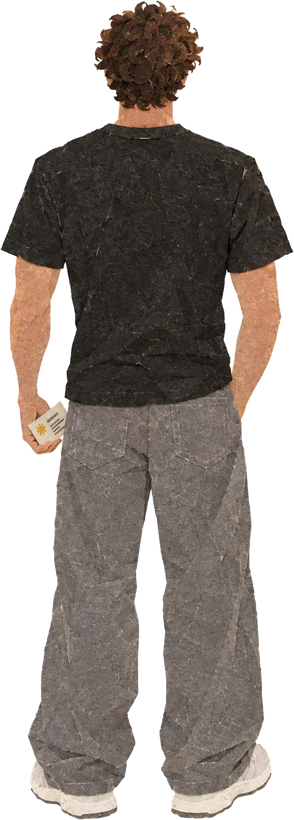
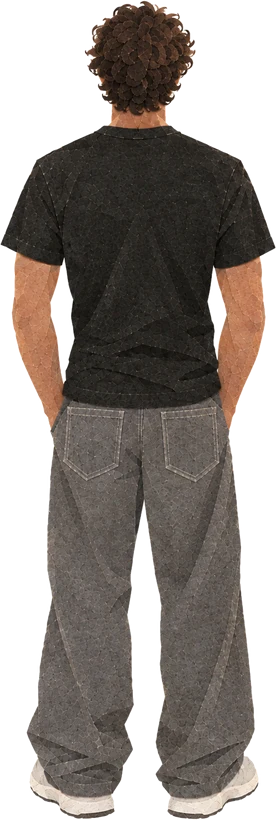
Add files via upload

diff --git a/js/app.js b/js/app.js
@@ -1,5 +1,5 @@
 // Julian Frick – Website. Inhalte kommen aus /content/*.json (bearbeitbar unter /admin).
-const PIECES = {"uni": {"x": 0.54, "y": 25.21, "w": 29.25, "h": 33.62, "clip": "polygon(89.7% 1.1%,60.8% 0.9%,59.2% 1.9%,53.7% 0.0%,37.7% 2.5%,36.4% 3.3%,32.9% 12.3%,28.8% 16.9%,27.4% 22.8%,8.5% 23.7%,8.4% 48.1%,0.7% 50.3%,0.0% 52.1%,0.0% 99.7%,99.2% 99.8%,99.9% 75.2%,97.9% 54.6%,92.7% 50.3%,92.7% 31.5%,90.3% 23.1%)"}, "tower": {"x": 30.02, "y": 10.11, "w": 17.58, "h": 38.94, "clip": "polygon(17.2% 11.7%,17.0% 38.5%,15.0% 40.2%,7.7% 41.3%,5.8% 42.5%,3.7% 60.1%,1.7% 68.6%,2.9% 69.3%,5.8% 69.3%,7.1% 70.4%,7.1% 77.0%,6.1% 79.9%,1.0% 83.5%,0.0% 94.8%,12.8% 98.2%,45.2% 99.9%,81.3% 98.8%,98.0% 94.4%,99.8% 86.6%,98.5% 70.4%,97.8% 68.0%,93.4% 64.5%,92.5% 64.5%,87.8% 68.4%,85.7% 78.7%,84.7% 80.5%,82.7% 81.1%,77.7% 81.1%,75.9% 80.6%,75.0% 79.5%,75.0% 62.4%,75.9% 61.3%,77.4% 60.9%,81.1% 61.6%,85.5% 61.2%,85.2% 35.7%,83.8% 30.9%,83.5% 23.6%,81.5% 23.5%,78.2% 24.9%,72.6% 25.7%,66.7% 27.6%,63.6% 27.3%,62.4% 26.0%,62.4% 20.1%,63.3% 19.0%,64.8% 18.6%,64.1% 15.3%,64.5% 11.6%,55.1% 8.5%,44.0% 5.7%,42.3% 4.1%,42.2% 0.0%,40.8% 0.1%,40.8% 4.4%,39.5% 5.7%)"}, "laptop": {"x": 48.27, "y": 33.72, "w": 16.39, "h": 20.32, "clip": "polygon(0.0% 78.8%,1.1% 88.0%,78.5% 99.7%,93.2% 82.7%,93.2% 72.5%,97.6% 61.8%,99.8% 1.8%,33.0% 0.0%,29.2% 56.5%)"}, "sign": {"x": 73.74, "y": 41.38, "w": 9.84, "h": 20.85, "clip": "polygon(43.5% 0.0%,40.4% 1.0%,36.5% 4.8%,37.1% 10.2%,35.3% 11.2%,18.5% 11.7%,0.6% 14.5%,1.2% 35.2%,33.1% 32.9%,37.1% 33.9%,36.2% 39.5%,1.5% 42.3%,2.4% 62.2%,4.9% 63.0%,36.5% 61.0%,36.5% 83.4%,30.1% 75.8%,29.2% 87.8%,22.5% 81.4%,26.1% 93.9%,21.3% 98.0%,25.8% 99.2%,42.6% 98.2%,50.2% 99.7%,59.6% 99.7%,62.3% 99.0%,59.9% 95.7%,65.0% 90.1%,59.9% 89.8%,64.4% 81.1%,56.8% 85.7%,57.1% 79.8%,52.0% 84.7%,50.2% 84.7%,49.5% 60.5%,70.2% 58.4%,81.5% 58.7%,99.7% 46.4%,79.6% 36.2%,49.5% 38.8%,48.3% 37.8%,48.3% 32.9%,53.8% 31.4%,83.3% 30.4%,99.7% 18.9%,82.1% 8.2%,74.5% 7.7%,67.5% 9.2%,48.9% 10.2%,47.7% 2.8%)"}, "train": {"x": 83.34, "y": 25.53, "w": 15.88, "h": 17.55, "clip": "polygon(1.3% 40.9%,2.3% 44.5%,8.1% 43.9%,10.0% 46.4%,9.6% 60.0%,7.0% 72.7%,0.0% 76.1%,3.4% 79.1%,8.5% 79.1%,16.6% 82.7%,27.7% 81.5%,33.9% 84.5%,36.3% 83.9%,42.4% 85.8%,44.4% 88.2%,48.4% 87.6%,50.7% 85.2%,58.0% 89.4%,62.7% 88.8%,66.7% 91.8%,69.9% 90.0%,74.2% 94.8%,81.5% 95.5%,83.2% 99.7%,85.1% 99.4%,85.9% 93.6%,87.4% 92.4%,92.8% 93.0%,95.3% 95.5%,98.1% 95.5%,99.8% 90.9%,99.4% 74.8%,96.0% 49.4%,93.0% 46.1%,92.7% 42.4%,85.7% 34.5%,71.0% 13.9%,46.3% 2.4%,45.4% 0.0%,38.8% 0.0%,37.5% 3.0%,23.7% 20.0%)"}, "cupid": {"x": 77.5, "y": 12.5, "w": 4.4, "h": 5.76}, "figur": {"x": 44.26, "y": 54.15, "w": 8.79, "h": 43.62}, "ki": {"x": 57.79, "y": 80.94, "w": 6.31, "h": 7.15}, "flugzeug": {"x": 42.76, "y": 4.79, "w": 7.48, "h": 4.47}, "fahnen": {"x": 93.66, "y": 18.72, "w": 3.17, "h": 4.47}, "dokumente": {"x": 89.23, "y": 84.36, "w": 8.97, "h": 13.3}, "herzwolke": {"x": 77.51, "y": 11.28, "w": 5.38, "h": 6.38}, "wolke1": {"x": 0.0, "y": 3.351, "w": 23.295, "h": 17.128}, "wolke2": {"x": 53.678, "y": 7.553, "w": 13.278, "h": 12.926}, "wolke3": {"x": 72.159, "y": 17.394, "w": 12.859, "h": 10.0}, "vogel1": {"x": 21.411, "y": 5.745, "w": 4.785, "h": 3.723}, "vogel2": {"x": 26.675, "y": 9.681, "w": 4.665, "h": 3.723}, "zug": {"x": 88.337, "y": 33.404, "w": 10.945, "h": 9.468}, "person1": {"x": 18.451, "y": 53.617, "w": 1.316, "h": 6.277}, "person2": {"x": 20.066, "y": 55.957, "w": 0.837, "h": 3.032}, "person3": {"x": 21.142, "y": 53.404, "w": 1.256, "h": 5.319}, "person4": {"x": 23.026, "y": 53.191, "w": 1.226, "h": 5.532}, "person5": {"x": 24.85, "y": 52.926, "w": 1.226, "h": 5.691}};
+const PIECES = {"uni": {"x": 0.54, "y": 25.21, "w": 29.25, "h": 33.62, "clip": "polygon(89.7% 1.1%,60.8% 0.9%,59.2% 1.9%,53.7% 0.0%,37.7% 2.5%,36.4% 3.3%,32.9% 12.3%,28.8% 16.9%,27.4% 22.8%,8.5% 23.7%,8.4% 48.1%,0.7% 50.3%,0.0% 52.1%,0.0% 99.7%,99.2% 99.8%,99.9% 75.2%,97.9% 54.6%,92.7% 50.3%,92.7% 31.5%,90.3% 23.1%)"}, "tower": {"x": 30.02, "y": 10.11, "w": 17.58, "h": 38.94, "clip": "polygon(17.2% 11.7%,17.0% 38.5%,15.0% 40.2%,7.7% 41.3%,5.8% 42.5%,3.7% 60.1%,1.7% 68.6%,2.9% 69.3%,5.8% 69.3%,7.1% 70.4%,7.1% 77.0%,6.1% 79.9%,1.0% 83.5%,0.0% 94.8%,12.8% 98.2%,45.2% 99.9%,81.3% 98.8%,98.0% 94.4%,99.8% 86.6%,98.5% 70.4%,97.8% 68.0%,93.4% 64.5%,92.5% 64.5%,87.8% 68.4%,85.7% 78.7%,84.7% 80.5%,82.7% 81.1%,77.7% 81.1%,75.9% 80.6%,75.0% 79.5%,75.0% 62.4%,75.9% 61.3%,77.4% 60.9%,81.1% 61.6%,85.5% 61.2%,85.2% 35.7%,83.8% 30.9%,83.5% 23.6%,81.5% 23.5%,78.2% 24.9%,72.6% 25.7%,66.7% 27.6%,63.6% 27.3%,62.4% 26.0%,62.4% 20.1%,63.3% 19.0%,64.8% 18.6%,64.1% 15.3%,64.5% 11.6%,55.1% 8.5%,44.0% 5.7%,42.3% 4.1%,42.2% 0.0%,40.8% 0.1%,40.8% 4.4%,39.5% 5.7%)"}, "laptop": {"x": 48.27, "y": 33.72, "w": 16.39, "h": 20.32, "clip": "polygon(0.0% 78.8%,1.1% 88.0%,78.5% 99.7%,93.2% 82.7%,93.2% 72.5%,97.6% 61.8%,99.8% 1.8%,33.0% 0.0%,29.2% 56.5%)"}, "sign": {"x": 73.74, "y": 41.38, "w": 9.84, "h": 20.85, "clip": "polygon(43.5% 0.0%,40.4% 1.0%,36.5% 4.8%,37.1% 10.2%,35.3% 11.2%,18.5% 11.7%,0.6% 14.5%,1.2% 35.2%,33.1% 32.9%,37.1% 33.9%,36.2% 39.5%,1.5% 42.3%,2.4% 62.2%,4.9% 63.0%,36.5% 61.0%,36.5% 83.4%,30.1% 75.8%,29.2% 87.8%,22.5% 81.4%,26.1% 93.9%,21.3% 98.0%,25.8% 99.2%,42.6% 98.2%,50.2% 99.7%,59.6% 99.7%,62.3% 99.0%,59.9% 95.7%,65.0% 90.1%,59.9% 89.8%,64.4% 81.1%,56.8% 85.7%,57.1% 79.8%,52.0% 84.7%,50.2% 84.7%,49.5% 60.5%,70.2% 58.4%,81.5% 58.7%,99.7% 46.4%,79.6% 36.2%,49.5% 38.8%,48.3% 37.8%,48.3% 32.9%,53.8% 31.4%,83.3% 30.4%,99.7% 18.9%,82.1% 8.2%,74.5% 7.7%,67.5% 9.2%,48.9% 10.2%,47.7% 2.8%)"}, "train": {"x": 83.34, "y": 25.53, "w": 15.88, "h": 17.55, "clip": "polygon(1.3% 40.9%,2.3% 44.5%,8.1% 43.9%,10.0% 46.4%,9.6% 60.0%,7.0% 72.7%,0.0% 76.1%,3.4% 79.1%,8.5% 79.1%,16.6% 82.7%,27.7% 81.5%,33.9% 84.5%,36.3% 83.9%,42.4% 85.8%,44.4% 88.2%,48.4% 87.6%,50.7% 85.2%,58.0% 89.4%,62.7% 88.8%,66.7% 91.8%,69.9% 90.0%,74.2% 94.8%,81.5% 95.5%,83.2% 99.7%,85.1% 99.4%,85.9% 93.6%,87.4% 92.4%,92.8% 93.0%,95.3% 95.5%,98.1% 95.5%,99.8% 90.9%,99.4% 74.8%,96.0% 49.4%,93.0% 46.1%,92.7% 42.4%,85.7% 34.5%,71.0% 13.9%,46.3% 2.4%,45.4% 0.0%,38.8% 0.0%,37.5% 3.0%,23.7% 20.0%)"}, "cupid": {"x": 77.5, "y": 12.5, "w": 4.4, "h": 5.76}, "figur": {"x": 44.53, "y": 54.15, "w": 8.25, "h": 43.62}, "ki": {"x": 57.79, "y": 80.94, "w": 6.31, "h": 7.15}, "flugzeug": {"x": 42.76, "y": 4.79, "w": 7.48, "h": 4.47}, "fahnen": {"x": 93.66, "y": 18.72, "w": 3.17, "h": 4.47}, "dokumente": {"x": 89.23, "y": 84.36, "w": 8.97, "h": 13.3}, "herzwolke": {"x": 77.51, "y": 11.28, "w": 5.38, "h": 6.38}, "wolke1": {"x": 0.0, "y": 3.351, "w": 23.295, "h": 17.128}, "wolke2": {"x": 53.678, "y": 7.553, "w": 13.278, "h": 12.926}, "wolke3": {"x": 72.159, "y": 17.394, "w": 12.859, "h": 10.0}, "vogel1": {"x": 21.411, "y": 5.745, "w": 4.785, "h": 3.723}, "vogel2": {"x": 26.675, "y": 9.681, "w": 4.665, "h": 3.723}, "zug": {"x": 88.337, "y": 33.404, "w": 10.945, "h": 9.468}, "person1": {"x": 18.451, "y": 53.617, "w": 1.316, "h": 6.277}, "person2": {"x": 20.066, "y": 55.957, "w": 0.837, "h": 3.032}, "person3": {"x": 21.142, "y": 53.404, "w": 1.256, "h": 5.319}, "person4": {"x": 23.026, "y": 53.191, "w": 1.226, "h": 5.532}, "person5": {"x": 24.85, "y": 52.926, "w": 1.226, "h": 5.691}};
 const SPOTS = [
   {id:"ausbildung", piece:"uni",    tilt:"-1.5deg"},
   {id:"erfahrung",  piece:"tower",  tilt:"1.2deg"},
@@ -15,7 +15,7 @@ const EGGS = [
   {id:"easteregg3", piece:"flugzeug"},
   {id:"easteregg",  piece:"herzwolke"},
 ];
-const DECO = [ {piece:"fahnen", cls:"sway"} ];
+const DECO = [];
 // Hintergrund-Bewegung: Wolken ziehen langsam, Vögel flattern (liegen hinter allen klickbaren Orten)
 const AMBIENT = [
   {piece:"wolke1", cls:"drift d1"}, {piece:"wolke2", cls:"drift d2"}, {piece:"wolke3", cls:"drift d3"},
@@ -160,7 +160,7 @@ async function openViewer(title, src){
     } else { body.replaceChildren(...srcs.map(s => { const i = new Image(); i.src = s; i.alt = title || ""; return i; })); }
   } catch(e) {
     if (isPdf(first)) { const f = document.createElement("iframe"); f.src = first; f.title = title || "Dokument"; f.className = "vframe"; body.replaceChildren(f); }
-    else body.innerHTML = '<p class="vmsg">Das Dokument konnte nicht geladen werden. Über «Herunterladen» können Sie es direkt öffnen.</p>';
+    else body.innerHTML = '<p class="vmsg">Das Dokument konnte nicht geladen werden. Über «Herunterladen» kannst du es direkt öffnen.</p>';
   }
 }
 function closeViewer(){ document.getElementById("viewer").hidden = true; }

diff --git a/css/style.css b/css/style.css
@@ -115,8 +115,8 @@ button:focus-visible,a:focus-visible{outline:2px dashed var(--ink);outline-offse
 .pile-label{position:absolute;right:2%;bottom:90%;white-space:nowrap;pointer-events:none;color:#fff;
   font-family:var(--hand);font-weight:700;font-size:clamp(16px,1.65vw,25px);line-height:1;transform:rotate(-7deg);transform-origin:100% 100%;
   text-shadow:0 0 1px #1f1d19,0 0 2px #1f1d19,1px 1px 0 #1f1d19,-1px -1px 0 #1f1d19,1px -1px 0 #1f1d19,-1px 1px 0 #1f1d19,0 2px 8px rgba(0,0,0,.45)}
-.stat{display:flex;align-items:baseline;gap:10px;margin:0 0 18px;padding:10px 14px;background:var(--paper-2);width:fit-content;max-width:100%}
-.stat b{font-family:var(--type);font-weight:400;font-size:28px;color:var(--coral);font-variant-numeric:tabular-nums}
+.stat{display:flex;align-items:center;gap:10px;margin:0 0 18px;padding:10px 14px;background:var(--paper-2);width:fit-content;max-width:100%}
+.stat b{font-family:var(--type);font-weight:400;font-size:28px;line-height:1;display:block;padding-top:.12em;color:var(--coral);font-variant-numeric:tabular-nums}
 .stat span{font-size:14px;color:var(--muted)}
 .cards{display:grid;grid-template-columns:repeat(3,1fr);gap:16px;margin-top:4px}
 a.proj{text-decoration:none}
